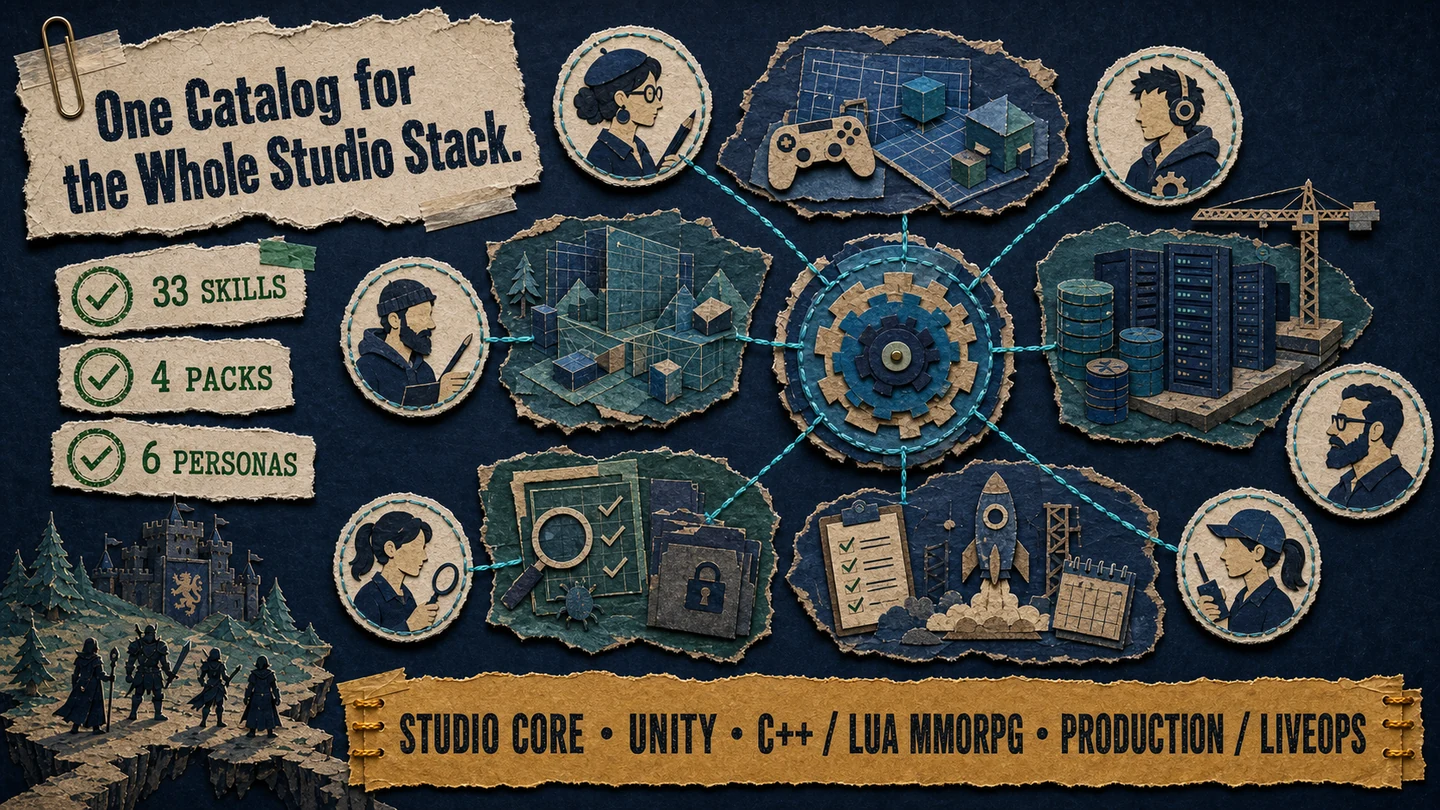
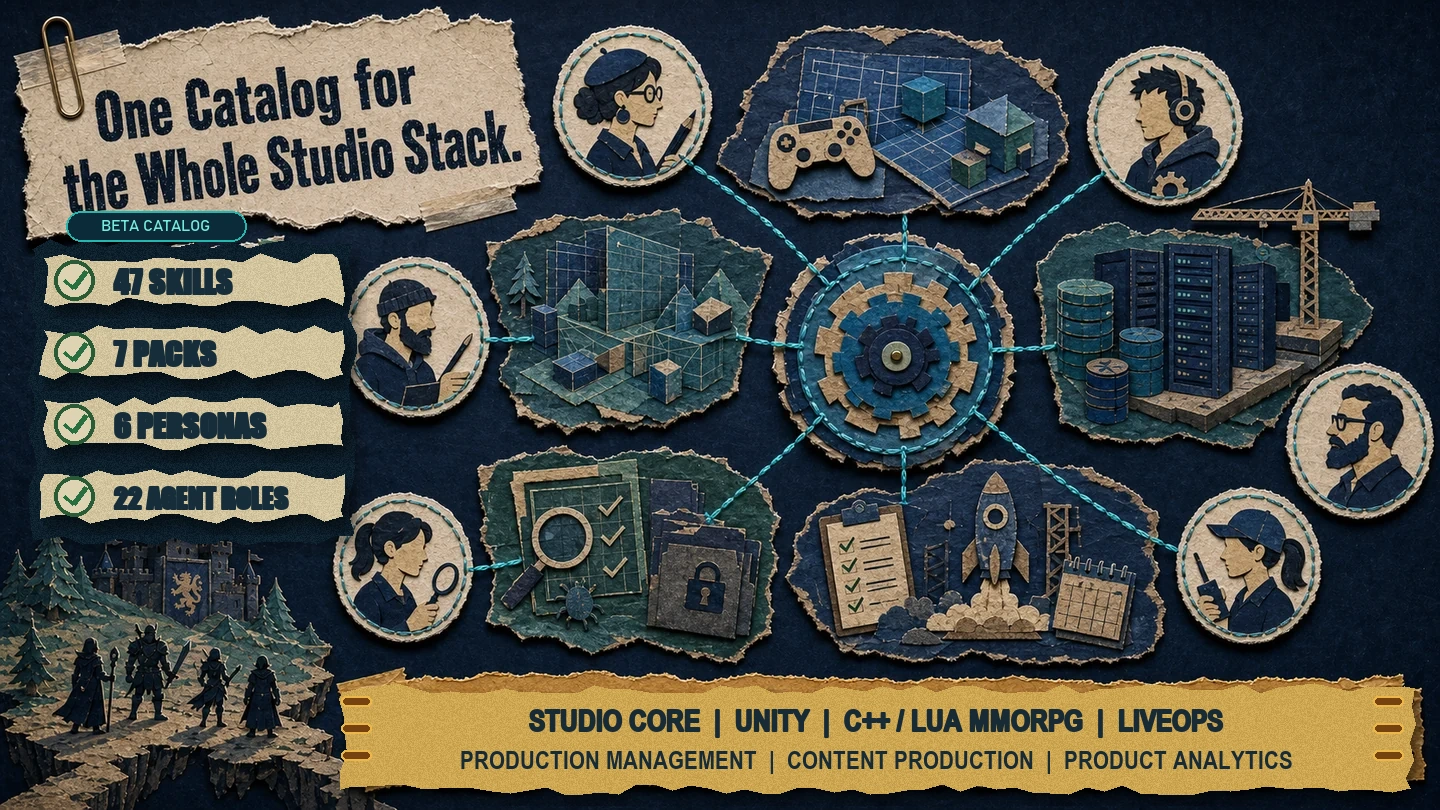
Update catalog counts, assets, and maturity docs
Add a Maturity section to AGENTS.md; update README, docs/index.html and docs/assets/banner.svg to reflect new catalog numbers (47 skills, 22 agents, 7 packs, routing 276/276) and add a BETA catalog badge. Replace slide-04.webp and expand packs/skills data in the public catalog. Add a packaging test (test_public_catalog_surfaces_match_registry_counts) to assert registry counts match the public assets and routing evaluation.

Changed region(s): [[0.2188, 0.8333, 1.0, 0.9877], [0.0312, 0.2469, 0.25, 0.679]]

diff --git a/docs/index.html b/docs/index.html
@@ -165,7 +165,7 @@
     .route-arrow { color: var(--faint); }
 
     .stat-band { border-block: 1px solid var(--line); background: rgba(13, 25, 41, .40); }
-    .stats { display: grid; grid-template-columns: repeat(4, 1fr); }
+    .stats { display: grid; grid-template-columns: repeat(5, 1fr); }
     .stat { padding: 23px 18px; border-right: 1px solid var(--line); }
     .stat:first-child { padding-left: 0; } .stat:last-child { border-right: 0; }
     .stat-value { display: block; color: var(--ink); font-size: 1.45rem; font-weight: 650; letter-spacing: -.04em; }
@@ -387,7 +387,7 @@
           <p class="hero-lede">GameStudio-CodexKIT gives Codex and Hermes an evidence-first operating layer for <strong>fragile, live, revenue-bearing game projects</strong> — from Unity clients and C++ servers to Lua contracts, player saves, release gates, and liveops incidents.</p>
           <div class="hero-actions">
             <a class="button button-primary" href="#install">Install the kit <span aria-hidden="true">↓</span></a>
-            <a class="button" href="#catalog">Explore 35 skills <span aria-hidden="true">→</span></a>
+            <a class="button" href="#catalog">Explore 47 skills <span aria-hidden="true">→</span></a>
           </div>
           <p class="hero-note"><span class="pulse" aria-hidden="true"></span>Evidence over confidence · BLOCKED is never PASS</p>
         </div>
@@ -411,10 +411,11 @@
 
     <section class="stat-band" aria-label="Project statistics">
       <div class="container stats">
-        <div class="stat"><span class="stat-value cyan">35</span><span class="stat-label">canonical skills</span></div>
-        <div class="stat"><span class="stat-value mint">4</span><span class="stat-label">installable packs</span></div>
-        <div class="stat"><span class="stat-value">204/204</span><span class="stat-label">routing evaluation</span></div>
-        <div class="stat"><span class="stat-value amber">≠ PASS</span><span class="stat-label">BLOCKED contract</span></div>
+        <div class="stat"><span class="stat-value cyan">47</span><span class="stat-label">canonical skills</span></div>
+        <div class="stat"><span class="stat-value">22</span><span class="stat-label">canonical agents</span></div>
+        <div class="stat"><span class="stat-value mint">7</span><span class="stat-label">installable packs</span></div>
+        <div class="stat"><span class="stat-value">276/276</span><span class="stat-label">routing evaluation</span></div>
+        <div class="stat"><span class="stat-value amber">&#8800; PASS</span><span class="stat-label">BLOCKED contract</span></div>
       </div>
     </section>
 
@@ -439,14 +440,17 @@
     <section class="section" id="packs">
       <div class="container">
         <div class="section-heading reveal">
-          <div><span class="eyebrow">The catalog</span><h2 class="section-title">One operating model.<br>Four studio lanes.</h2></div>
+          <div><span class="eyebrow">The catalog</span><h2 class="section-title">One operating model.<br>Seven studio lanes.</h2></div>
           <p class="section-intro">The router starts with the smallest matching workflow. Packs give teams a clean way to install only the surface they need.</p>
         </div>
         <div class="packs-grid">
-          <article class="pack-card reveal" style="--pack-color: var(--cyan)"><div class="pack-index"><span>01 / core</span><span>engine-agnostic</span></div><div class="pack-icon">⌁</div><h3>Studio Core</h3><p>Intake, safety, evidence, collaboration, design, and governance for every project.</p><span class="pack-count">13 workflows</span></article>
-          <article class="pack-card reveal" style="--pack-color: var(--mint)"><div class="pack-index"><span>02 / client</span><span>unity</span></div><div class="pack-icon">◈</div><h3>Unity</h3><p>Offline debugging, UI rendering, localization, asset integrity, batch builds, and scaffolding.</p><span class="pack-count">6 workflows</span></article>
-          <article class="pack-card reveal" style="--pack-color: var(--amber)"><div class="pack-index"><span>03 / backend</span><span>mmorpg</span></div><div class="pack-icon">⌘</div><h3>C++ / Lua MMORPG</h3><p>Services, MySQL, protocol contracts, crash triage, authority review, and save migrations.</p><span class="pack-count">9 workflows</span></article>
-          <article class="pack-card reveal" style="--pack-color: var(--coral)"><div class="pack-index"><span>04 / production</span><span>liveops</span></div><div class="pack-icon">✦</div><h3>Production / LiveOps</h3><p>Playtests, performance, economy, balance, release, stores, incidents, and telemetry.</p><span class="pack-count">8 workflows</span></article>
+          <article class="pack-card reveal" style="--pack-color: var(--cyan)"><div class="pack-index"><span>01 / core</span><span>engine-agnostic</span></div><div class="pack-icon">CORE</div><h3>Studio Core</h3><p>Intake, safety, evidence, collaboration, design, and governance for every project.</p><span class="pack-count">15 workflows</span></article>
+          <article class="pack-card reveal" style="--pack-color: var(--mint)"><div class="pack-index"><span>02 / client</span><span>unity</span></div><div class="pack-icon">UNITY</div><h3>Unity</h3><p>Offline debugging, UI rendering, localization, asset integrity, batch builds, and scaffolding.</p><span class="pack-count">6 workflows</span></article>
+          <article class="pack-card reveal" style="--pack-color: var(--amber)"><div class="pack-index"><span>03 / backend</span><span>mmorpg</span></div><div class="pack-icon">NET</div><h3>C++ / Lua MMORPG</h3><p>Services, MySQL, protocol contracts, crash triage, authority review, and save migrations.</p><span class="pack-count">9 workflows</span></article>
+          <article class="pack-card reveal" style="--pack-color: var(--coral)"><div class="pack-index"><span>04 / operations</span><span>liveops</span></div><div class="pack-icon">OPS</div><h3>Production / LiveOps</h3><p>Playtests, performance, economy, balance, release, stores, incidents, and telemetry.</p><span class="pack-count">8 workflows</span></article>
+          <article class="pack-card reveal" style="--pack-color: #c4b5fd"><div class="pack-index"><span>05 / planning</span><span>delivery</span></div><div class="pack-icon">PLAN</div><h3>Production Management</h3><p>Production planning, dependency risk, QA strategy, compatibility, and capacity verification.</p><span class="pack-count">5 workflows</span></article>
+          <article class="pack-card reveal" style="--pack-color: #f9a8d4"><div class="pack-index"><span>06 / content</span><span>creative</span></div><div class="pack-icon">ART</div><h3>Content Production</h3><p>Level, narrative, art, animation, and audio production review workflows.</p><span class="pack-count">5 workflows</span></article>
+          <article class="pack-card reveal" style="--pack-color: #fde68a"><div class="pack-index"><span>07 / product</span><span>experiments</span></div><div class="pack-icon">DATA</div><h3>Product Analytics</h3><p>Product experimentation and governed live content rollout workflows.</p><span class="pack-count">2 workflows</span></article>
         </div>
       </div>
     </section>
@@ -464,14 +468,17 @@
               <input id="skill-search" type="search" placeholder="Search skills, systems, or outcomes…" autocomplete="off">
               <span class="search-kbd" aria-hidden="true">/</span>
             </label>
-            <span class="result-count" id="result-count" aria-live="polite">35 skills</span>
+            <span class="result-count" id="result-count" aria-live="polite">47 skills</span>
           </div>
           <div class="filters" role="tablist" aria-label="Filter skills by pack">
-            <button class="filter" type="button" data-filter="all" aria-selected="true" style="--filter-color: var(--cyan)"><span class="filter-dot"></span>All <span class="filter-total">35</span></button>
+            <button class="filter" type="button" data-filter="all" aria-selected="true" style="--filter-color: var(--cyan)"><span class="filter-dot"></span>All <span class="filter-total">47</span></button>
             <button class="filter" type="button" data-filter="studio-core" aria-selected="false" style="--filter-color: var(--cyan)"><span class="filter-dot"></span>Studio Core</button>
             <button class="filter" type="button" data-filter="unity" aria-selected="false" style="--filter-color: var(--mint)"><span class="filter-dot"></span>Unity</button>
             <button class="filter" type="button" data-filter="cpp-lua-mmorpg" aria-selected="false" style="--filter-color: var(--amber)"><span class="filter-dot"></span>C++ / Lua MMORPG</button>
             <button class="filter" type="button" data-filter="production-design-liveops" aria-selected="false" style="--filter-color: var(--coral)"><span class="filter-dot"></span>Production / LiveOps</button>
+            <button class="filter" type="button" data-filter="production-management" aria-selected="false" style="--filter-color: #c4b5fd"><span class="filter-dot"></span>Production Management</button>
+            <button class="filter" type="button" data-filter="content-production" aria-selected="false" style="--filter-color: #f9a8d4"><span class="filter-dot"></span>Content Production</button>
+            <button class="filter" type="button" data-filter="product-analytics" aria-selected="false" style="--filter-color: #fde68a"><span class="filter-dot"></span>Product Analytics</button>
           </div>
         </div>
         <div class="skills-grid" id="skills-grid"></div>
@@ -494,7 +501,7 @@
 
     <section class="section lifecycle-section" id="lifecycle">
       <div class="container">
-        <div class="section-heading reveal"><div><span class="eyebrow">The studio lifecycle</span><h2 class="section-title">Ask once.<br>Move through the right gates.</h2></div><p class="section-intro">The catalog is not a checklist of 35 skills. Start with a desired outcome; the router selects a lane, then safety and evidence gates control how far the agent can go.</p></div>
+        <div class="section-heading reveal"><div><span class="eyebrow">The studio lifecycle</span><h2 class="section-title">Ask once.<br>Move through the right gates.</h2></div><p class="section-intro">The catalog is not a checklist of 47 skills. Start with a desired outcome; the router selects a lane, then safety and evidence gates control how far the agent can go.</p></div>
         <p class="lifecycle-scroll-cue" aria-hidden="true">Swipe or scroll horizontally to see all 6 phases →</p>
         <figure class="lifecycle-map reveal" aria-labelledby="lifecycle-map-caption">
           <figcaption id="lifecycle-map-caption" class="eyebrow">Lifecycle phases and outputs</figcaption>
@@ -566,44 +573,59 @@
       "studio-core": { label: "Studio Core", short: "core", color: "var(--cyan)" },
       "unity": { label: "Unity", short: "unity", color: "var(--mint)" },
       "cpp-lua-mmorpg": { label: "C++ / Lua MMORPG", short: "cpp-lua", color: "var(--amber)" },
-      "production-design-liveops": { label: "Production / LiveOps", short: "liveops", color: "var(--coral)" }
+      "production-design-liveops": { label: "Production / LiveOps", short: "liveops", color: "var(--coral)" },
+      "production-management": { label: "Production Management", short: "production", color: "#c4b5fd" },
+      "content-production": { label: "Content Production", short: "content", color: "#f9a8d4" },
+      "product-analytics": { label: "Product Analytics", short: "analytics", color: "#fde68a" }
     };
     const skills = [
-      ["using-game-studio-skills", "studio-core", "root", "read-only", "Apply the operating contract, choose evidence labels, route work, and prevent unsupported PASS claims."],
-      ["studio-project-intake", "studio-core", "router", "read-only", "Collect the goal, scope, risk tier, engine, ownership, constraints, and do-not-touch paths into an actionable packet."],
-      ["studio-workspace-routing", "studio-core", "router", "read-only", "Route profile-aware multi-repository work by nested Git root, subsystem, validation slice, authority, and cross-project phase."],
-      ["studio-agent-orchestration", "studio-core", "workflow", "read-only", "Select bounded investigator, implementer, verifier, and profile specialist roles with disjoint ownership and concurrency limits."],
-      ["safe-project-mutation", "studio-core", "safety", "medium", "Change project files or generated state with a dry run, exact scope, backup manifest, apply verification, and restore path."],
-      ["build-and-runtime-verification", "studio-core", "gate", "read-only", "Run build, compile, test, launch, or runtime checks tied to commands, exit codes, artifacts, limitations, and fresh evidence."],
-      ["evidence-first-debugging", "studio-core", "workflow", "low", "Debug a crash, lỗi, failing game, tool, build, service, or script through reproduction, root-cause isolation, minimal fix, and regression proof."],
-      ["studio-handoff", "studio-core", "workflow", "low", "Pause or transfer work with a durable handoff covering branch, scope, files, evidence labels, decisions, and next actions."],
-      ["review-swarm", "studio-core", "workflow", "read-only", "Review a known change set through parallel read-only code, architecture, test, safety, or product lanes with one verdict."],
-      ["bug-hunt-swarm", "studio-core", "workflow", "read-only", "Investigate an unknown crash, intermittent failure, or cross-subsystem bug with parallel reproduction lanes and ranked hypotheses."],
-      ["game-feature-brainstorming", "studio-core", "interactive", "read-only", "Explore a game feature, mechanic, player experience, or production approach with options and trade-offs before choosing."],
-      ["game-feature-to-spec", "studio-core", "workflow", "low", "Turn an approved game mechanic into a testable specification with states, criteria, edge cases, tuning, telemetry, and playtest criteria."],
-      ["feature-to-work-packets", "studio-core", "workflow", "low", "Decompose an approved feature into ordered work packets with exact files, ownership, dependencies, risks, and verification."],
-      ["skill-authoring-and-audit", "studio-core", "governance", "low", "Author or audit kit skills with trigger collision checks, provenance, routing evals, pressure evals, and lifecycle rules."],
-      ["studio-project-scaffold", "studio-core", "workflow", "medium", "Bootstrap an adopted game repository with rules, handoff, contracts, subsystem ownership, and preserved local skills.", ["unity", "cpp-lua-mmorpg"]],
-      ["multi-service-local-environment-doctor", "cpp-lua-mmorpg", "diagnostic", "read-only", "Diagnose local game services with ports, listeners, configured dependencies, startup order, and project isolation."],
-      ["game-database-migration-safety", "cpp-lua-mmorpg", "safety", "high", "Plan a MySQL schema or data migration with isolation, dry-run review, backup, restore, approval, and zero credential exposure."],
-      ["lua-client-server-contract-audit", "cpp-lua-mmorpg", "diagnostic", "read-only", "Audit Lua client/server RPC copies or generated protocol tables for opcode, fields, types, ordering, and source authority."],
-      ["localization-authority-audit", "cpp-lua-mmorpg", "diagnostic", "read-only", "Audit localization authority, generated copies, keys, text drift, encoding, mojibake, and client/server consistency.", ["unity"]],
-      ["cpp-server-crash-triage", "cpp-lua-mmorpg", "diagnostic", "read-only", "Triage a C++ game server crash, dump, access violation, stack trace, symbols, or build identity into a ranked root-cause plan."],
-      ["mmorpg-packet-protocol-review", "cpp-lua-mmorpg", "diagnostic", "read-only", "Review C++ server and Unity client wire compatibility: versions, opcodes, byte layout, direction, and request-response pairing."],
-      ["network-authority-and-exploit-review", "cpp-lua-mmorpg", "diagnostic", "read-only", "Review multiplayer trust boundaries, server authority, replay, abuse, and rate limits without attack traffic."],
-      ["save-data-schema-migration", "cpp-lua-mmorpg", "safety", "high", "Version and convert player saves, profiles, or persistence payloads with fixtures, compatibility checks, and rollback."],
-      ["unity-client-offline-debugging", "unity", "diagnostic", "read-only", "Diagnose Unity offline gameplay failures across login, bootstrap, network fallback, local data, and scene startup."],
-      ["unity-ui-rendering-debugging", "unity", "diagnostic", "read-only", "Find missing, clipped, wrongly sorted, misanchored, or invisible Unity and NGUI content without guessing."],
-      ["unity-asset-guid-meta-audit", "unity", "diagnostic", "read-only", "Audit Unity GUID and meta consistency, duplicate GUIDs, missing metas, stale references, and import failures."],
-      ["unity-batchmode-build-verification", "unity", "gate", "low", "Verify Unity batchmode, BuildPipeline, Editor.log, PlayerSettings, or Unity CI jobs with reproducible evidence."],
-      ["playtest-evidence", "production-design-liveops", "workflow", "read-only", "Plan or review playtests with scenarios, participant context, observations, reproduction evidence, severity, and honest conclusions."],
-      ["game-performance-budget", "production-design-liveops", "gate", "read-only", "Define or review frame-time, memory, loading, network, CPU, GPU, allocation, or thermal budgets against measurements."],
-      ["economy-source-sink-model", "production-design-liveops", "workflow", "read-only", "Model currencies, item faucets, sinks, exchange rates, player segments, inflation risk, and progression affordability."],
-      ["balance-data-change-review", "production-design-liveops", "workflow", "read-only", "Review numeric tuning diffs such as damage, price, cooldown, drop rate, or progression against approved bounds."],
-      ["release-candidate-preflight", "production-design-liveops", "gate", "read-only", "Make a go/no-go release decision across artifacts, tests, issues, approvals, compatibility, monitoring, and rollback."],
-      ["store-submission-checklist", "production-design-liveops", "gate", "high", "Prepare a game for store submission with metadata, compliance, ratings, privacy, package, entitlement, and approval gates."],
-      ["liveops-incident-response", "production-design-liveops", "workflow", "high", "Control a live outage with an incident commander, containment, mitigation, communication, recovery, and postmortem."],
-      ["telemetry-event-contract-review", "production-design-liveops", "diagnostic", "read-only", "Review analytics event names, properties, types, versions, privacy classes, producers, consumers, and compatibility."]
+      ["using-game-studio-skills", "studio-core", "root", "read-only", "Use when starting any GameStudio-CodexKIT task or when a model runner is unavailable and someone requests a confidence-based PASS."],
+      ["studio-project-intake", "studio-core", "router", "read-only", "Use when collecting a game project goal, scope, risk tier, engine and version, subsystem ownership, constraints, and do-not-touch paths into an actionable intake task packet."],
+      ["studio-workspace-routing", "studio-core", "router", "read-only", "Use when `.agents/project-profile.yaml`, nested Git roots, or cross-repository game work requires a profile-defined repository route, validation slice, or cross-project phase."],
+      ["studio-agent-orchestration", "studio-core", "workflow", "read-only", "Use when selecting project investigator, implementer, independent verifier, or profile specialist roles with expected output, do-not-touch scope, critical-path ownership, disjoint writers, concurrency limits, or no child agents."],
+      ["safe-project-mutation", "studio-core", "safety", "medium", "Use when changing project files or generated state requires a report-only dry run, exact scope, backup manifest, apply verification, and a tested restore path."],
+      ["build-and-runtime-verification", "studio-core", "gate", "read-only", "Use when running build, compile, test, launch, or runtime checks and producing a verdict tied to exact commands, exit codes, artifact paths, limitations, and fresh evidence."],
+      ["evidence-first-debugging", "studio-core", "workflow", "low", "Use when debugging a crash, lỗi, failing game, tool, build, service, script, or reproducible local code failure requires repro or reproduction, giả thuyết or ranked hypotheses, instrumentation, root-cause isolation, a minimal fix, regression proof, and a regression test."],
+      ["studio-handoff", "studio-core", "workflow", "low", "Use when pausing, transferring, or reactivating game-studio work and a durable handoff must capture branch, goal, scope, files, commands, Verified Snapshot Unverified BLOCKED facts, failures, decisions, next actions, and a reactivation prompt."],
+      ["review-swarm", "studio-core", "workflow", "read-only", "Use when reviewing a known change set through parallel read-only code, architecture, test, safety, or product lanes with disjoint concerns and one integrator verdict."],
+      ["bug-hunt-swarm", "studio-core", "workflow", "read-only", "Use when an unknown crash, intermittent failure, or cross-subsystem bug needs parallel read-only reproduction lanes, ranked hypotheses, suspect paths, and an integrator root-cause plan."],
+      ["game-feature-brainstorming", "studio-core", "interactive", "read-only", "Use when exploring a game feature, mechanic, player experience, or production approach and the team needs two or three options with trade-offs before choosing a design."],
+      ["game-feature-to-spec", "studio-core", "workflow", "low", "Use when an approved, chosen, or selected game mechanic direction must become a testable specification with acceptance criteria, state transitions, inputs, outputs, edge cases, tuning, telemetry, and playtest criteria."],
+      ["feature-to-work-packets", "studio-core", "workflow", "low", "Use when decomposing an approved specification into ordered work packets with a file owner, exact paths, single-writer ownership, dependencies, risks, evidence, and verification commands."],
+      ["skill-authoring-and-audit", "studio-core", "governance", "low", "Use when creating or revising a GameStudio-CodexKIT skill, resolving ambiguous skill triggers, auditing provenance or lifecycle maturity, or deriving reusable capabilities from session history."],
+      ["studio-project-scaffold", "studio-core", "workflow", "medium", "Use when running gamestudio init, status, or uninit, or bootstrapping a new or adopted game repository with AGENTS.md, HANDOFF.md, .agents/CONTRACT.md, project governance, a subsystem registry, or a per-project adapter report, plan digest, named reviewer, backup root, generated agent overlay, apply, uninstall, and .codex/config.toml preservation.", ["unity", "cpp-lua-mmorpg"]],
+      ["multi-service-local-environment-doctor", "cpp-lua-mmorpg", "diagnostic", "read-only", "Use when diagnosing a multi-service local game environment with port conflicts, process listeners, configured ports, service names, startup dependencies, and cross-project isolation concerns."],
+      ["game-database-migration-safety", "cpp-lua-mmorpg", "safety", "high", "Use when planning a game MySQL schema or data migration that requires 3306 or 3307 isolation, recognized schema gates, dry-run review, backup, restore, human approval, and zero credential exposure."],
+      ["unity-client-offline-debugging", "unity", "diagnostic", "read-only", "Use when a Unity client cannot enter offline gameplay because login, bootstrap, disconnected server handling, local mock data, network fallback, or scene startup paths fail."],
+      ["unity-ui-rendering-debugging", "unity", "diagnostic", "read-only", "Use when a Unity UI, HUD, screen item, or NGUI widget is missing, clipped, behind another canvas, wrongly sorted, disconnected from a prefab or atlas, misanchored, or invisible despite correct gameplay state."],
+      ["lua-client-server-contract-audit", "cpp-lua-mmorpg", "diagnostic", "read-only", "Use when normalized Lua client/server RPC contract copies or generated protocol tables disagree on opcode, request-response fields, types, ordering, or source authority."],
+      ["localization-authority-audit", "unity", "diagnostic", "read-only", "Use when auditing localization source authority, generated copies, translation keys, missing or extra entries, mismatched text, encoding, mojibake, or client and server localization drift.", ["cpp-lua-mmorpg"]],
+      ["unity-asset-guid-meta-audit", "unity", "diagnostic", "read-only", "Use when auditing Unity asset GUID and meta consistency, duplicate GUIDs, missing meta files, stale references, or import and prefab reference failures without editing assets."],
+      ["unity-batchmode-build-verification", "unity", "gate", "low", "Use when a Unity batch or batchmode, BuildPipeline, Editor.log, PlayerSettings, or Unity CI job is involved."],
+      ["cpp-server-crash-triage", "cpp-lua-mmorpg", "diagnostic", "read-only", "Use when triaging a C++ game server crash, dump, access violation, segmentation fault, stack trace, symbols, or build identity into a stable signature and ranked root-cause plan."],
+      ["mmorpg-packet-protocol-review", "cpp-lua-mmorpg", "diagnostic", "read-only", "Use when a C++ server and Unity client protocol manifest or wire compatibility review covers packet version negotiation, numeric opcode registry, byte layout order, direction, and request-response pairing."],
+      ["network-authority-and-exploit-review", "cpp-lua-mmorpg", "diagnostic", "read-only", "Use when sensitive multiplayer or MMORPG client actions require static server-authority validation, trust-boundary, replay, abuse, or rate-limit analysis with no attack traffic."],
+      ["save-data-schema-migration", "cpp-lua-mmorpg", "safety", "high", "Use when versioning or converting serialized player save files, profiles, checkpoints, or persistence payloads across recognized save-format versions with fixture compatibility and rollback."],
+      ["playtest-evidence", "production-design-liveops", "workflow", "read-only", "Use when planning or reviewing game playtests that need structured scenarios, participant context, observations, reproduction evidence, severity, and honest separation of observed findings from conclusions."],
+      ["game-performance-budget", "production-design-liveops", "gate", "read-only", "Use when defining or reviewing game frame-time, memory, loading, network, CPU, GPU, allocation, or thermal budgets against captured measurements and target hardware tiers."],
+      ["economy-source-sink-model", "production-design-liveops", "workflow", "read-only", "Use when modeling a game economy's currencies, item faucets, sinks, exchange rates, player segments, inflation risk, progression affordability, or live-operations reward assumptions."],
+      ["balance-data-change-review", "production-design-liveops", "workflow", "read-only", "Use when numeric game tuning data such as damage, price, cooldown, drop rate, or progression has a before/after diff that must stay within approved min/max bounds."],
+      ["release-candidate-preflight", "production-design-liveops", "gate", "read-only", "Use when a release candidate or RC needs a go/no-go readiness decision across required artifacts, test summaries, known issues, approvals, compatibility, monitoring, and rollback."],
+      ["store-submission-checklist", "production-design-liveops", "gate", "high", "Use when preparing a game for Steam, console, mobile, or other storefront submission with platform metadata, compliance, ratings, privacy, package, entitlement, and approval requirements."],
+      ["liveops-incident-response", "production-design-liveops", "workflow", "high", "Use when a live production service outage needs incident-controlled service or database mitigation, an incident commander, containment, timeline, player communications, recovery, and postmortem."],
+      ["telemetry-event-contract-review", "production-design-liveops", "diagnostic", "read-only", "Use when reviewing game analytics or telemetry event names, IDs, required properties, types, versions, privacy classes, producers, consumers, and backward compatibility before instrumentation changes."],
+      ["studio-production-planning", "production-management", "workflow", "low", "Use when a game milestone needs production planning across schedule, staffing, workstreams, dependencies, delivery forecast, scope, and milestone acceptance; not for decomposing one approved feature into work packets."],
+      ["production-risk-and-dependency-review", "production-management", "gate", "read-only", "Use when a production plan needs a read-only dependency risk review covering critical path, ownership gaps, blocked handoffs, mitigation, escalation, and schedule exposure; not for creating the baseline production schedule."],
+      ["level-and-content-design-review", "content-production", "workflow", "read-only", "Use when a level, encounter, mission space, or content slice needs review for player flow, pacing, readability, content density, progression gates, challenge, replayability, and production feasibility; not for broad feature ideation."],
+      ["narrative-quest-content-contract", "content-production", "workflow", "low", "Use when narrative, quest, dialogue, objective, state, reward, localization, cinematic, and implementation teams need one explicit content contract; not for general story brainstorming or protocol review."],
+      ["art-asset-pipeline-preflight", "content-production", "gate", "read-only", "Use when source art or game assets need preflight across naming, ownership, DCC export, scale, pivots, materials, textures, LOD, collision, compression, import settings, budgets, and delivery; not for GUID-only audits."],
+      ["animation-rigging-import-audit", "content-production", "diagnostic", "read-only", "Use when character animation needs an audit across skeleton, rig, skin weights, avatar, retargeting, clips, events, root motion, compression, import settings, runtime blending, and platform budgets; not for general art preflight."],
+      ["audio-content-pipeline-review", "content-production", "diagnostic", "read-only", "Use when music, voice, SFX, ambience, or middleware content needs review across source ownership, loudness, codec, streaming, looping, localization, routing, memory, concurrency, platform limits, and integration; not for generic performance budgeting."],
+      ["qa-test-strategy-and-coverage", "production-management", "workflow", "read-only", "Use when a game project, milestone, or feature needs a QA test strategy and coverage matrix across risk, test levels, platforms, environments, ownership, automation, regression, evidence, and exit criteria; not for one playtest session."],
+      ["platform-device-compatibility-matrix", "production-management", "gate", "read-only", "Use when a game needs a platform and device compatibility matrix across OS, hardware, GPU, memory, resolution, input, network, storefront, certification, test evidence, and support policy; not for store metadata preparation."],
+      ["load-soak-capacity-verification", "production-management", "gate", "medium", "Use when servers or online game services need controlled load, soak, concurrency, capacity, saturation, leak, queue, failover, recovery, and scaling verification with baselines and stop conditions; not for client frame budgets."],
+      ["product-analytics-experiment-review", "product-analytics", "workflow", "read-only", "Use when a game product experiment or A/B test needs review across hypothesis, population, assignment, metrics, guardrails, instrumentation, segmentation, sample size, significance, novelty, ethics, and decision rules; not for telemetry schema alone."],
+      ["liveops-content-rollout-and-rollback", "product-analytics", "gate", "high", "Use when a live game content update needs a governed rollout and rollback plan across cohort, canary, configuration, dependencies, monitoring, approvals, triggers, recovery, communication, and post-rollout verification; not for incident response after failure."]
     ];
 
     const grid = document.getElementById("skills-grid");

diff --git a/tests/packaging/test_codex_plugin.py b/tests/packaging/test_codex_plugin.py
@@ -16,6 +16,27 @@ REPOSITORY_URL = "https://github.com/hoatv2211/GameStudio-CodexKIT.git"
 
 
 class CodexPluginPackagingTests(unittest.TestCase):
+    def test_public_catalog_surfaces_match_registry_counts(self) -> None:
+        from scripts.route_eval import evaluate_repository
+
+        skill_count = len(load_yaml(ROOT / "registry" / "capabilities.yaml")["capabilities"])
+        agent_count = len(load_yaml(ROOT / "registry" / "agent-roles.yaml")["agent_roles"])
+        pack_count = len(load_yaml(ROOT / "registry" / "packs.yaml")["packs"])
+        routing = evaluate_repository(ROOT)
+
+        banner = (ROOT / "docs" / "assets" / "banner.svg").read_text(encoding="utf-8")
+        landing = (ROOT / "docs" / "index.html").read_text(encoding="utf-8")
+        readme = (ROOT / "README.md").read_text(encoding="utf-8")
+
+        self.assertIn(f"{skill_count} SKILLS", banner)
+        self.assertIn(f"{agent_count} AGENTS", banner)
+        self.assertIn(f"{pack_count} PACKS", banner)
+        self.assertIn(f"ROUTING {routing.passed}/{routing.total}", banner)
+        self.assertIn(f">{skill_count}</span><span class=\"stat-label\">canonical skills", landing)
+        self.assertIn(f">{agent_count}</span><span class=\"stat-label\">canonical agents", landing)
+        self.assertIn(f">{pack_count}</span><span class=\"stat-label\">installable packs", landing)
+        self.assertIn(f">{routing.passed}/{routing.total}</span>", landing)
+        self.assertIn(f"{routing.total} deterministic eval cases", readme)
     def test_root_manifest_packages_the_canonical_skill_catalog(self) -> None:
         manifest_path = ROOT / ".codex-plugin" / "plugin.json"
         self.assertTrue(manifest_path.is_file(), manifest_path)

diff --git a/README.md b/README.md
@@ -39,7 +39,7 @@ The kit connects a live game, its studio stack, and its operating evidence into 
     <td align="center"><strong>Ask for the outcome</strong><br><sub>The router selects the smallest matching specialist workflow.</sub></td>
   </tr>
   <tr>
-    <td width="50%"><img src="docs/assets/showcase-handcrafted/slide-04.webp" alt="Thirty-three skills across four packs and six studio personas" width="100%"></td>
+    <td width="50%"><img src="docs/assets/showcase-handcrafted/slide-04.webp" alt="Forty-seven skills across seven packs, six studio personas, and twenty-two canonical agent roles" width="100%"></td>
     <td width="50%"><img src="docs/assets/showcase-handcrafted/slide-05.webp" alt="Verified, Snapshot, Unverified, and BLOCKED evidence states" width="100%"></td>
   </tr>
   <tr>
@@ -72,7 +72,7 @@ The kit connects a live game, its studio stack, and its operating evidence into 
 | Failure mode | Agent claims success | `BLOCKED` verdicts + PASS requires command, exit code, artifact |
 | Mutations | Agent edits freely | 4-tier risk gates: read-only → low → medium (reviewer+backup) → high (human approval + dry-run) |
 | Multi-agent | Single session | One-writer-per-file ownership, lock protocol, handoff contracts, review/bug-hunt swarms |
-| Routing quality | Hope the description matches | 192 deterministic eval cases incl. negative + collision cases, bilingual (EN/VI) |
+| Routing quality | Hope the description matches | 276 deterministic eval cases incl. negative + collision cases, bilingual (EN/VI) |
 
 ## Field evidence — real run on a live MMORPG
 
@@ -174,13 +174,13 @@ Repository governance tools such as the catalog validator, originality audit, an
 - 47 canonical skills, including one root entry router and 46 routed workflow or domain skills.
 - 276/276 deterministic Tier-A routing cases.
 - 10 external-catalog collision cases against six generic neighboring skills.
-- 12 governed real-project dogfood scenarios with strict PASS/BLOCKED evidence validation.
+- 12 governed real-project dogfood scenarios defined with strict PASS/BLOCKED evidence validation.
 - Seven installable packs, six thin personas, and 22 canonical agent roles.
 - Two primary distributions: native Codex plugin installation and Agent Skills CLI installation for Hermes Agent.
 - Eighteen standalone skills with 21 generated helper copies and explicit full-clone boundaries for repository-only governance tools.
 - Optional generated exports for manual Hermes, Codex, pack, project-local `.agents/` skills, and `.codex/agents/` role overlays.
 - Structural, provenance, secret, network/package, safety, external-catalog collision, behavior, pressure, and lifecycle gates.
-- All 47 canonical skills are `beta` based on maintainer-confirmed use in the FPC studio project (`Snapshot`). Deterministic gates and the localization case study are `Verified`; per-skill Tier-B, behavior, pressure, and runtime evidence remain required for `stable`.
+- The 47-skill catalog is `beta` as a studio-adopted kit based on maintainer-confirmed use in the FPC project (`Snapshot`); this does not claim that every skill ran individually. Deterministic gates and the localization case study are `Verified`, while per-skill Tier-B, behavior, pressure, and runtime evidence remain required for `stable`.
 
 The template does not claim that a Unity build, C++ server, database migration, store submission, or liveops action has run unless a real project artifact proves it.
 

diff --git a/AGENTS.md b/AGENTS.md
@@ -31,6 +31,13 @@ Files under the ignored local `.archive/` are optional historical context only a
 - Use `BLOCKED` when a tool, dependency, permission, live project, or model runner is unavailable. Never convert `BLOCKED` into `PASS`.
 - A PASS claim requires a command, exit code, and artifact path where applicable.
 - Compile success is not regression proof; performance claims require a baseline, scenario, hardware, sample count, and measured delta.
+## Maturity
+
+- Use `draft` or `experimental` before real studio adoption is confirmed.
+- Use `beta` for a catalog or workflow adopted in a real studio project. Maintainer confirmation may be recorded as `Snapshot`; beta does not claim that every skill has individual verified dogfood evidence.
+- `beta` does not require a per-skill promotion record. `stable` requires verified dogfood plus Tier-B, behavior, and pressure evidence; `release` additionally requires a runtime matrix and sanitized session history.
+- Keep maturity separate from task evidence: a beta skill must still report individual claims as `Verified`, `Snapshot`, `Unverified`, or `BLOCKED` according to what was observed.
+- A lifecycle audit may honestly remain `BLOCKED` for missing model, runtime, history, upstream, or KPI evidence while catalog beta maturity remains valid. Never treat that absence as `premature_maturity`; that gate applies to `stable` and `release`.
 
 ## Mutation
 
